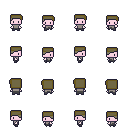
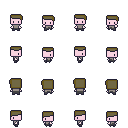
Add hud

diff --git a/style.css b/style.css
@@ -293,21 +293,199 @@ body {
    transform: translateX(-50%) translateY(0);
 }
 
-.headline {
+.victory-overlay {
    position: absolute;
-   top: calc(var(--pixel-size) * 2);
-   right: calc(var(--pixel-size) * 2);
-   margin: 0;
-   padding: calc(var(--pixel-size) * 2) calc(var(--pixel-size) * 3);
-   font-family: 'Press Start 2P', cursive;
-   font-size: calc(var(--pixel-size) * 2.5);
-   line-height: 1.8;
-   color: #f5f5f5;
+   inset: 0;
+   display: flex;
+   align-items: center;
+   justify-content: center;
+   background: rgba(26, 28, 58, 0.72);
+   z-index: 5;
+   opacity: 0;
+   pointer-events: none;
+   transition: opacity 0.35s ease;
+}
+
+.victory-overlay.visible {
+   opacity: 1;
+}
+
+.victory-panel {
+   display: flex;
+   flex-direction: column;
+   align-items: center;
+   gap: calc(var(--pixel-size) * 3);
+   padding: calc(var(--pixel-size) * 5) calc(var(--pixel-size) * 4);
    text-align: center;
    background-color: #5f5f5f;
-   border: var(--pixel-size) solid #434343;
+   border: calc(var(--pixel-size) * 2) solid #434343;
    box-shadow:
-      inset 0 calc(var(--pixel-size) * -1) 0 #cccccc,
-      inset 0 var(--pixel-size) 0 #323234;
+      inset 0 calc(var(--pixel-size) * -2) 0 #cccccc,
+      inset 0 calc(var(--pixel-size) * 2) 0 #323234,
+      0 0 0 calc(var(--pixel-size) * 2) #1a1c3a;
+   transform: scale(0.85);
+   transition: transform 0.35s cubic-bezier(0.34, 1.56, 0.64, 1);
+}
+
+.victory-overlay.visible .victory-panel {
+   transform: scale(1);
+}
+
+.victory-icon {
+   width: calc(var(--grid-cell) * 3);
+   height: calc(var(--grid-cell) * 3);
+   background: url("./assets/AIPH.png") no-repeat center;
+   background-size: contain;
+   -webkit-animation: victoryIconPop 0.6s ease 0.15s both;
+           animation: victoryIconPop 0.6s ease 0.15s both;
+}
+
+.victory-title {
+   margin: 0;
+   font-family: 'Press Start 2P', cursive;
+   font-size: calc(var(--pixel-size) * 5);
+   line-height: 1.4;
+   color: #ffe566;
+   text-shadow:
+      calc(var(--pixel-size) * 2) calc(var(--pixel-size) * 2) 0 #434343,
+      calc(var(--pixel-size) * 3) calc(var(--pixel-size) * 3) 0 #1a1c3a;
+}
+
+.victory-subtitle {
+   margin: 0;
+   font-family: 'Press Start 2P', cursive;
+   font-size: calc(var(--pixel-size) * 3.5);
+   line-height: 1.5;
+   color: #f5f5f5;
+   text-shadow: calc(var(--pixel-size) * 2) calc(var(--pixel-size) * 2) 0 #434343;
+}
+
+.victory-hint {
+   margin: calc(var(--pixel-size) * 2) 0 0;
+   font-family: 'Press Start 2P', cursive;
+   font-size: calc(var(--pixel-size) * 1.75);
+   line-height: 1.8;
+   color: #b8f4ff;
+}
+
+@-webkit-keyframes victoryIconPop {
+   0% {
+      transform: scale(0) rotate(-12deg);
+      opacity: 0;
+   }
+   70% {
+      transform: scale(1.15) rotate(4deg);
+      opacity: 1;
+   }
+   100% {
+      transform: scale(1) rotate(0deg);
+      opacity: 1;
+   }
+}
+
+@keyframes victoryIconPop {
+   0% {
+      transform: scale(0) rotate(-12deg);
+      opacity: 0;
+   }
+   70% {
+      transform: scale(1.15) rotate(4deg);
+      opacity: 1;
+   }
+   100% {
+      transform: scale(1) rotate(0deg);
+      opacity: 1;
+   }
+}
+
+.hud {
+   position: absolute;
+   bottom: calc(var(--pixel-size) * 1);
+   left: calc(var(--pixel-size) * 1);
+   display: flex;
+   align-items: center;
+   gap: calc(var(--pixel-size) * 1);
+   padding: calc(var(--pixel-size) * 1);
+   background-color: #7a7a7a;
+   border: calc(var(--pixel-size) * 1) solid #434343;
    z-index: 3;
+}
+
+.hud-portrait {
+   flex-shrink: 0;
+   width: calc(var(--pixel-size) * 13);
+   height: calc(var(--pixel-size) * 11);
+   background: url("./assets/hud.png") no-repeat center;
+   background-size: 100%;
+}
+
+.hud-info {
+   display: flex;
+   flex-direction: column;
+   gap: calc(var(--pixel-size) * 1);
+}
+
+.hud-level {
+   margin: 0;
+   height: calc(var(--pixel-size) * 3);
+   display: flex;
+   align-items: center;
+   justify-content: center;
+   padding: 0 calc(var(--pixel-size) * 1);
+   font-family: 'Press Start 2P', cursive;
+   font-size: calc(var(--pixel-size) * 2);
+   line-height: 1;
+   color: #ffe566;
+   background-color: #5f5f5f;
+   border: calc(var(--pixel-size) * 1) solid #434343;
+   white-space: nowrap;
+}
+
+.hud-bar {
+   display: flex;
+   align-items: center;
+   gap: calc(var(--pixel-size) * 1);
+   height: calc(var(--pixel-size) * 3);
+}
+
+.hud-bar-label {
+   flex-shrink: 0;
+   width: calc(var(--pixel-size) * 5);
+   height: calc(var(--pixel-size) * 3);
+   display: flex;
+   align-items: center;
+   justify-content: center;
+   font-family: 'Press Start 2P', cursive;
+   font-size: calc(var(--pixel-size) * 2);
+   line-height: 1;
+   color: #f5f5f5;
+}
+
+.hud-hp .hud-bar-label {
+   background-color: #c94b6a;
+}
+
+.hud-mp .hud-bar-label {
+   background-color: #3d6ec9;
+}
+
+.hud-bar-track {
+   display: flex;
+   gap: 0;
+   height: calc(var(--pixel-size) * 1);
+}
+
+.hud-pixel {
+   flex-shrink: 0;
+   width: var(--pixel-size);
+   height: var(--pixel-size);
+   background-color: #434343;
+}
+
+.hud-hp .hud-pixel.filled {
+   background-color: #5cb832;
+}
+
+.hud-mp .hud-pixel.filled {
+   background-color: #4a9ee8;
 }

diff --git a/index.html b/index.html
@@ -86,8 +86,51 @@
       </div>
       
       
-      <p class="headline">From zero<br>to hero</p>
+      <div class="hud">
+         <div class="hud-portrait pixel-art"></div>
+         <div class="hud-info">
+            <p class="hud-level">Lv.0</p>
+            <div class="hud-bar hud-hp">
+               <span class="hud-bar-label pixel-art">HP</span>
+               <div class="hud-bar-track pixel-art">
+                  <span class="hud-pixel filled"></span>
+                  <span class="hud-pixel filled"></span>
+                  <span class="hud-pixel filled"></span>
+                  <span class="hud-pixel filled"></span>
+                  <span class="hud-pixel filled"></span>
+                  <span class="hud-pixel filled"></span>
+                  <span class="hud-pixel filled"></span>
+                  <span class="hud-pixel filled"></span>
+                  <span class="hud-pixel filled"></span>
+                  <span class="hud-pixel filled"></span>
+               </div>
+            </div>
+            <div class="hud-bar hud-mp">
+               <span class="hud-bar-label pixel-art">MP</span>
+               <div class="hud-bar-track pixel-art">
+                  <span class="hud-pixel filled"></span>
+                  <span class="hud-pixel filled"></span>
+                  <span class="hud-pixel filled"></span>
+                  <span class="hud-pixel filled"></span>
+                  <span class="hud-pixel filled"></span>
+                  <span class="hud-pixel filled"></span>
+                  <span class="hud-pixel filled"></span>
+                  <span class="hud-pixel filled"></span>
+                  <span class="hud-pixel filled"></span>
+                  <span class="hud-pixel filled"></span>
+               </div>
+            </div>
+         </div>
+      </div>
       <p class="game-message" hidden></p>
+      <div class="victory-overlay" hidden>
+         <div class="victory-panel">
+            <div class="victory-icon pixel-art"></div>
+            <p class="victory-title">AIPH</p>
+            <p class="victory-subtitle">ZDOBYTY!</p>
+            <p class="victory-hint">Spacja = kolonizacja</p>
+         </div>
+      </div>
       
       
       

diff --git a/script.js b/script.js
@@ -2,6 +2,7 @@ var character = document.querySelector(".character");
 var map = document.querySelector(".map");
 var mapItem = document.querySelector(".map-item");
 var gameMessage = document.querySelector(".game-message");
+var victoryOverlay = document.querySelector(".victory-overlay");
 
 //start in the middle of the map
 var x = 90;
@@ -17,6 +18,21 @@ var tileSize = 16;
 var itemX = x + tileSize / 2 - 1; //centered like the 2x2 character
 var itemY = y + tileSize / 2 + tileSize * 5 + 3; //5 tiles below character start
 var messageTimeout = null;
+var victoryTimeout = null;
+
+const showVictoryMessage = () => {
+   victoryOverlay.hidden = false;
+   requestAnimationFrame(() => {
+      victoryOverlay.classList.add("visible");
+   });
+   clearTimeout(victoryTimeout);
+   victoryTimeout = setTimeout(() => {
+      victoryOverlay.classList.remove("visible");
+      setTimeout(() => {
+         victoryOverlay.hidden = true;
+      }, 350);
+   }, 3600);
+};
 
 const showGameMessage = (text) => {
    gameMessage.textContent = text;
@@ -82,6 +98,7 @@ const placeCharacter = () => {
       ) {
          hasAiphItem = true;
          mapItem.classList.add("collected");
+         showVictoryMessage();
       }
    }
 